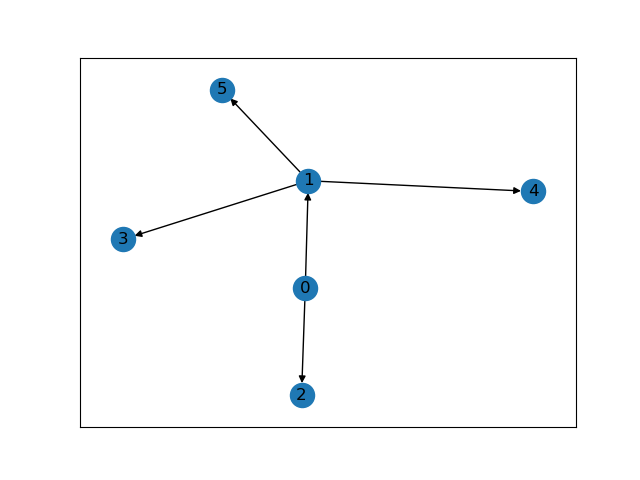
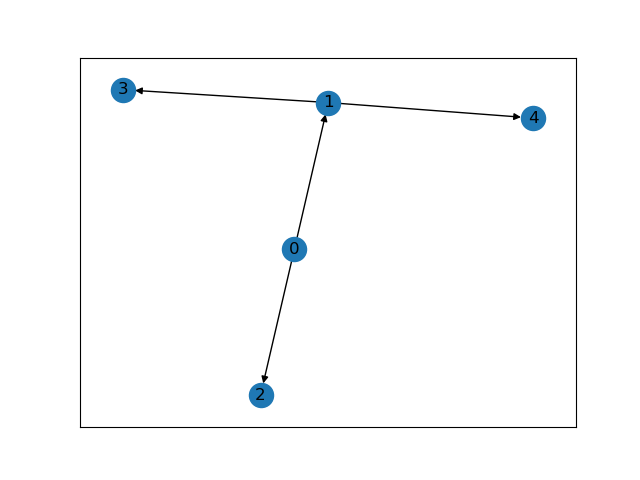
code cleanup

diff --git a/main.py b/main.py
@@ -78,62 +78,62 @@ def model_tree_markov(data, n_cells, n_sites, n_copy_states, tree: nx.DiGraph):
 
     n_nodes = len(tree.nodes)
     mu_n = 1.0  # TODO: change to random variable
-    # initialization
-    C_r_m = 0
-    C_u_m = 0
+    # TODO: add cell assignment sampling
+    # pi = pyro.sample(dirich)
+    # z = pyro.sample(categor)
 
     # variables to store complete data in
-    C = torch.zeros(n_nodes, n_sites, dtype=torch.int)
-    C_temp = {}
-    y = torch.zeros(n_nodes, n_sites, n_cells, dtype=torch.float)
+    C_dict = {}
+    y = torch.zeros(n_nodes, n_sites, n_cells)
+
+    # dist for root note (dirac on C_r_m)
+    prior_tensor = torch.eye(n_copy_states)
+    # C_r_m determines the value of the root copy number
+    # which is the same for each site
+    C_r_m = 2
 
     for u in nx.dfs_preorder_nodes(tree):
-        if u == 0:  # root case
-            prior_tensor = torch.zeros(n_copy_states)
-            prior_tensor[2] = 1  # all probability on CN = 2
-            C_r_m = pyro.sample("C_{}_{}".format(u, 0), dist.Categorical(prior_tensor))
-            C_temp[u, 0] = C_r_m
-            C[u, 0] = C_r_m
-            y[u, 0] = pyro.sample("y_{}_{}".format(u, 0), dist.Normal(mu_n * C_r_m * torch.ones(n_cells), 1.0),
-                                  obs=data[0])
-        else:
-            # exception above makes sure tree is an actual tree (i.e. one and only one predecessor)
-            parent_idx = [pred for pred in tree.predecessors(u)][0]
-            C_p_0 = C_temp[parent_idx, 0]
-            C_u_m = pyro.sample("C_{}_{}".format(u, 0), dist.Categorical(pair_cpd[:, C_p_0]))
-            C_temp[u, 0] = C_u_m
-            C[u, 0] = C_u_m
-            y[u, 0] = pyro.sample("y_{}_{}".format(u, 0), dist.Normal(mu_n * C_u_m * torch.ones(n_cells), 1.0),
-                                  obs=data[0])
-
-        # no need for pyro.markov, range is equivalent
-        # a simple for loop is used in the tutorials for sequential dependencies
-        # ref: https://pyro.ai/examples/svi_part_ii.html#Sequential-plate
-        for m in range(1, n_sites):
-
-            # initial state case only depends on the parent initial state
-            if u == 0:
+        # root node
+        if u == 0:
+            for m in range(n_sites):
                 # root node is always 2
-                C_r_m = pyro.sample("C_{}_{}".format(u, m), dist.Categorical(probs=prior_tensor))
-                # save values in arrays
-                C_temp[u, m] = C_r_m
-                C[u, m] = C_r_m
-                y[u, m] = pyro.sample("y_{}_{}".format(u, m), dist.Normal(mu_n * C_r_m * torch.ones(n_cells), 1.0), obs=data[m])
-            else:
-                # save previous copy number
-                parent_idx = [pred for pred in tree.predecessors(u)][0]
-                C_p_m_1 = C_temp[parent_idx, m-1]
-                C_p_m = C_temp[parent_idx, m]
-                C_u_m_1 = C_temp[u, m-1]
+                C_r_m = pyro.sample("C_{}_{}".format(0, m), dist.Categorical(prior_tensor[C_r_m, :]))
 
-                # other states depend on 3 states
-                dist_C_u_m = dist.Categorical(probs=cpd[:, C_u_m_1, C_p_m, C_p_m_1])
-                C_u_m = pyro.sample("C_{}_{}".format(u, m), dist_C_u_m)
+                C_dict[0, m] = C_r_m
+                y[0, m] = pyro.sample("y_{}_{}".format(0, m), dist.Normal(mu_n * C_r_m * torch.ones(n_cells), 1.0),
+                                    obs=data[m])
+        # inner nodes
+        else:
+            p = [pred for pred in tree.predecessors(u)][0]
+            # no need for pyro.markov, range is equivalent
+            # a simple for loop is used in the tutorials for sequential dependencies
+            # ref: https://pyro.ai/examples/svi_part_ii.html#Sequential-plate
+            for m in range(n_sites):
+                # current site, parent copy number is always available
+                C_p_m = C_dict[p, m]
 
-                # save values in arrays
-                C_temp[u, m] = C_u_m
-                C[u, m] = C_u_m
+                zipping_dist = None
+                if m == 0:
+                    # initial state case only depends on the parent initial state
+                    # use pair_cpd as m-1 is not available
+                    zipping_dist = dist.Categorical(pair_cpd[:, C_p_m])
+                else:
+                    # previous copy numbers
+                    C_p_m_1 = C_dict[p, m - 1]
+                    C_u_m_1 = C_dict[u, m - 1]
+
+                    # other states depend on 3 states
+                    zipping_dist = dist.Categorical(probs=cpd[:, C_u_m_1, C_p_m, C_p_m_1])
+
+                C_u_m = pyro.sample("C_{}_{}".format(u, m), zipping_dist)
+
+                # save values in dict
+                C_dict[u, m] = C_u_m
                 y[u, m] = pyro.sample("y_{}_{}".format(u, m), dist.Normal(mu_n * C_u_m * torch.ones(n_cells), 1.0), obs=data[m])
+
+    C = torch.empty((n_nodes, n_sites))
+    for u, m in C_dict.keys():
+        C[u, m] = C_dict[u,m]
 
     return C, y
 
@@ -219,7 +219,7 @@ def main(args):
 
     # params
     n_cells = 3
-    n_sites = 10
+    n_sites = 5
     n_copy_states = 5
     data = torch.ones(n_sites, n_cells)
     tree = nx.DiGraph()
@@ -227,7 +227,6 @@ def main(args):
     tree.add_edge(0, 2)
     tree.add_edge(1, 3)
     tree.add_edge(1, 4)
-    tree.add_edge(1, 5)
 
     # draw tree topology
     f = plt.figure()
@@ -244,16 +243,16 @@ def main(args):
     unconditioned_model = poutine.uncondition(model_tree_markov)
     #C_r, C_u, y_u = unconditioned_model(data, n_cells, n_sites, n_copy_states, )
     C, y = unconditioned_model(data, n_cells, n_sites, n_copy_states, tree, )
-    print(f"C_r: {C}")
+    print(f"C: {C}")
     #print(f"C_u: {C_u}")
-    print(f"y_u: {y}")
+    print(f"y: {y}")
 
 
 if __name__ == '__main__':
 
     # parse arguments
     parser = argparse.ArgumentParser(
-        description="Double chain HMM test"
+        description="Tree HMM test"
     )
     parser.add_argument("--seed", default=42, type=int)
     parser.add_argument("--cuda", action="store_true")

diff --git a/eps_utils.py b/eps_utils.py
@@ -51,6 +51,7 @@ class TreeHMM:
 
 
     def compute_cpds(self):
+        # FIXME: 0 absorption is not working properly
         for cp4 in itertools.product(*(range(self.n_copy_states), ) * 4):
             self.cpd_table[cp4] = self.h(*cp4)
 
